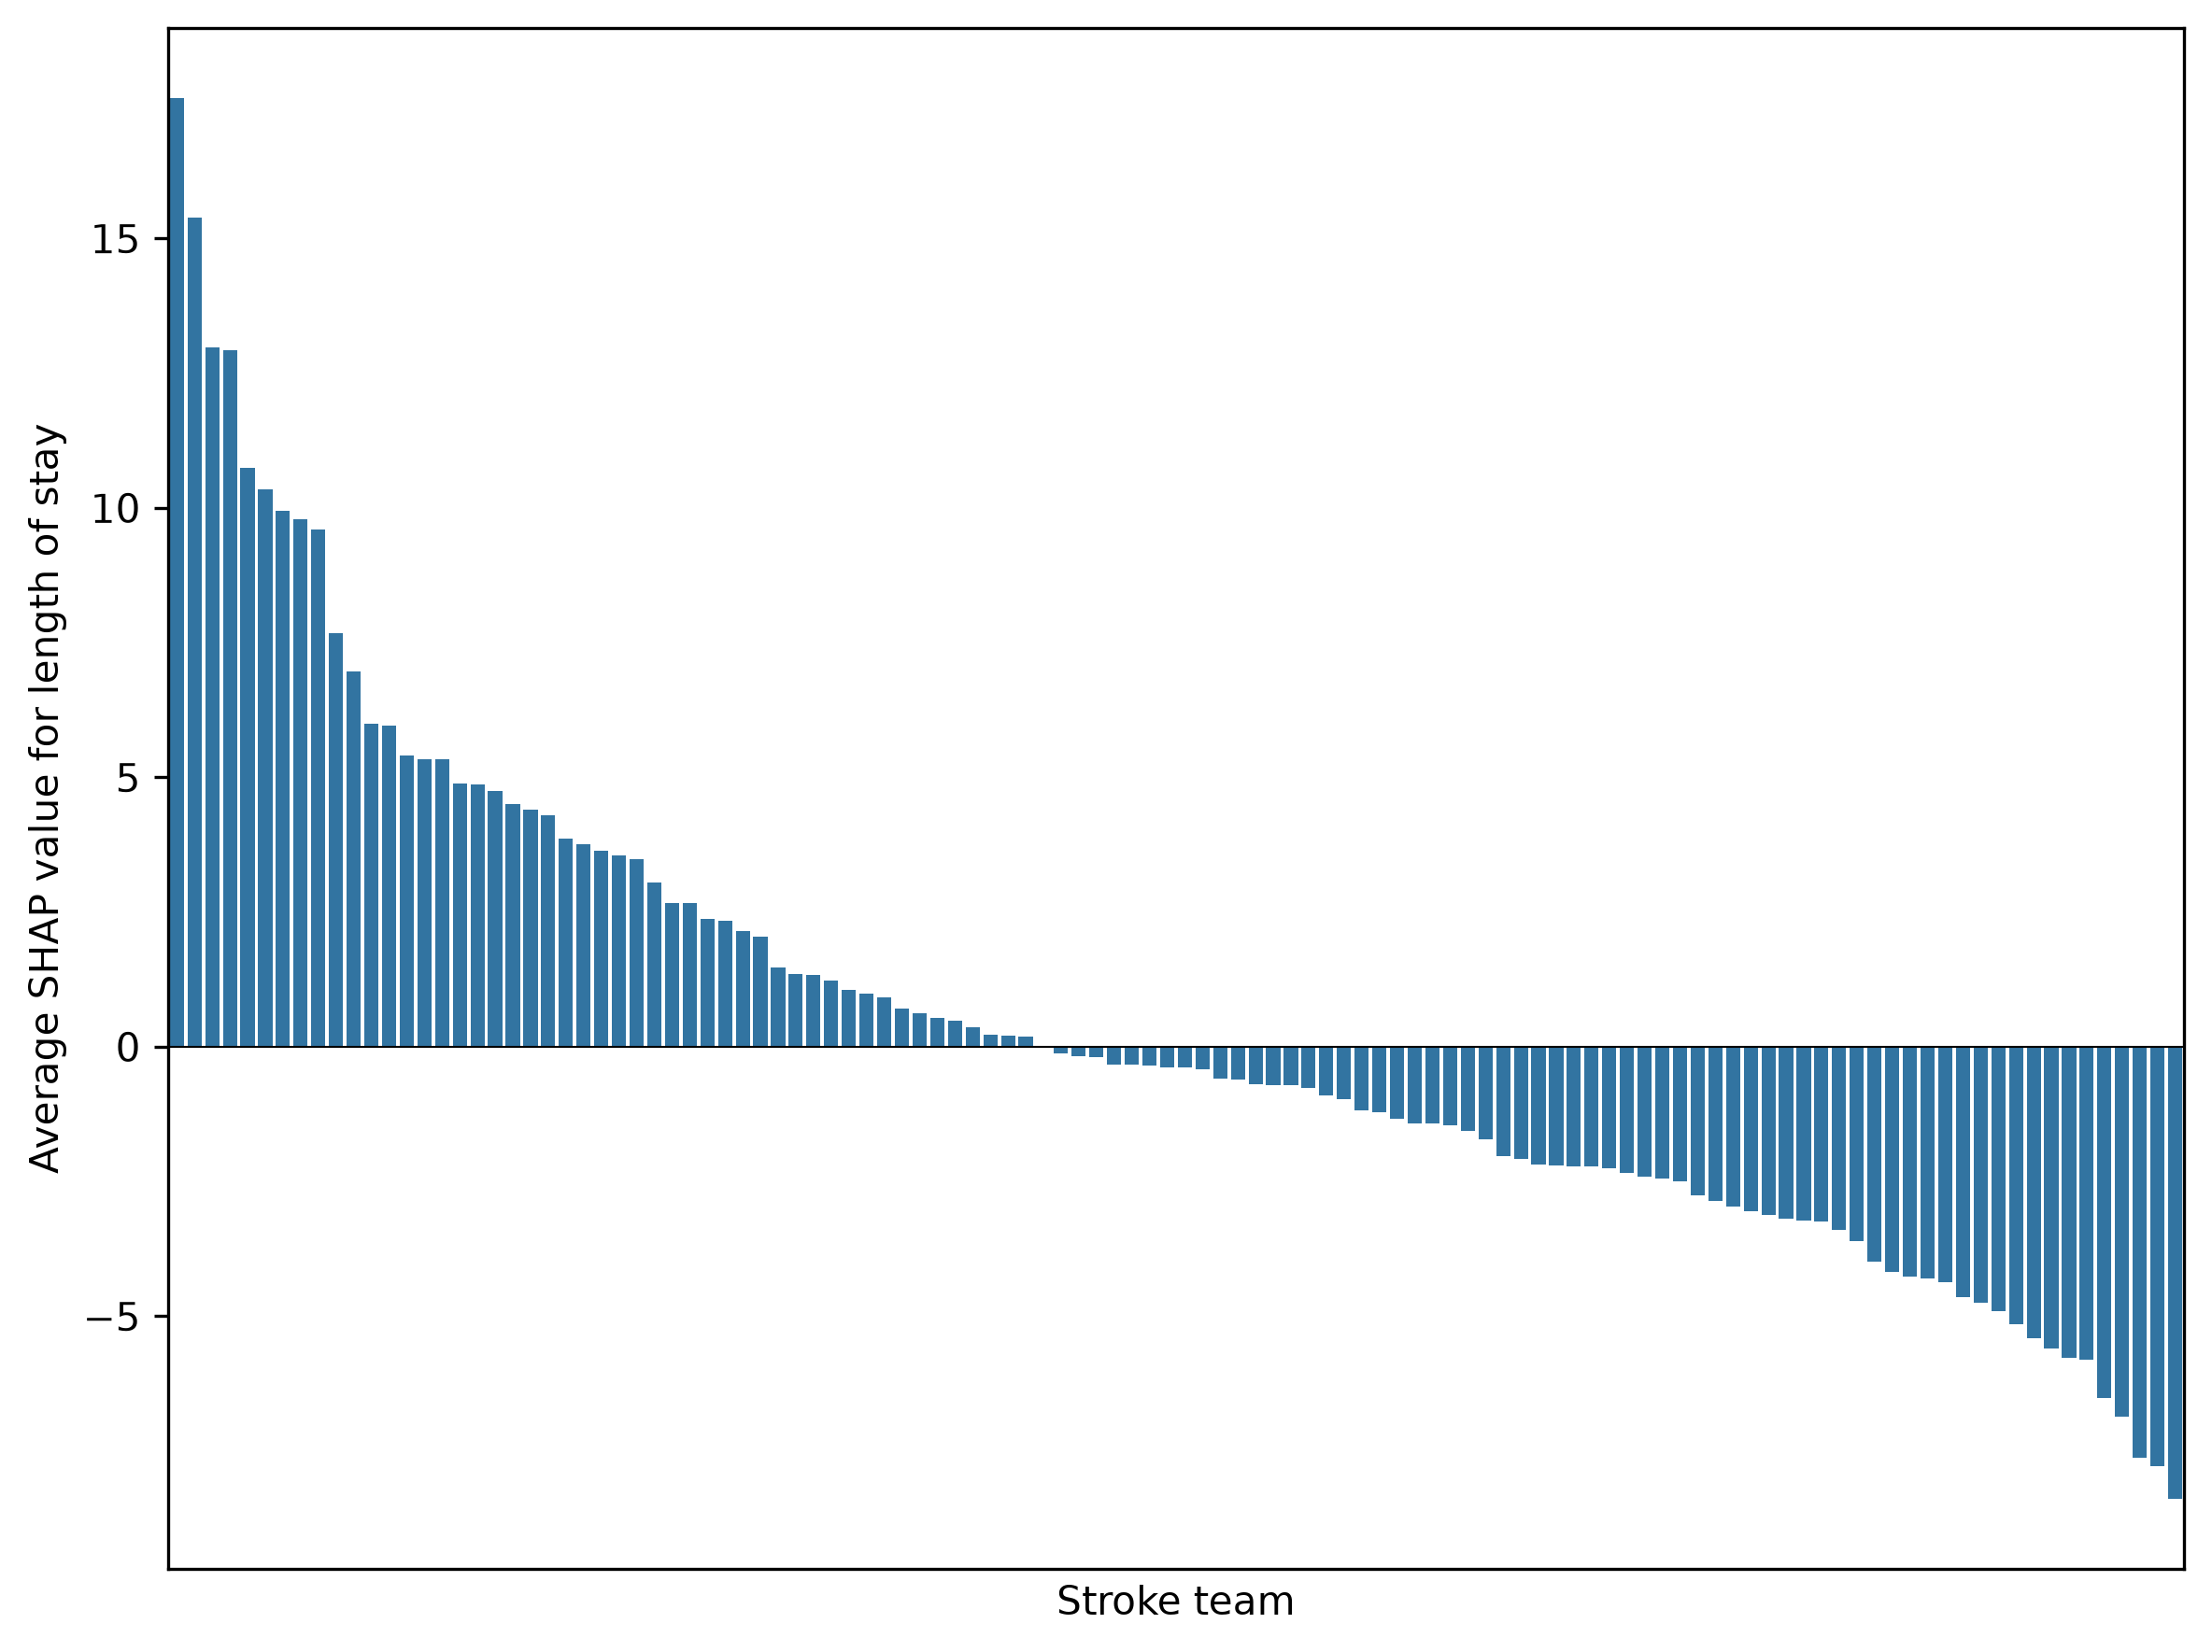
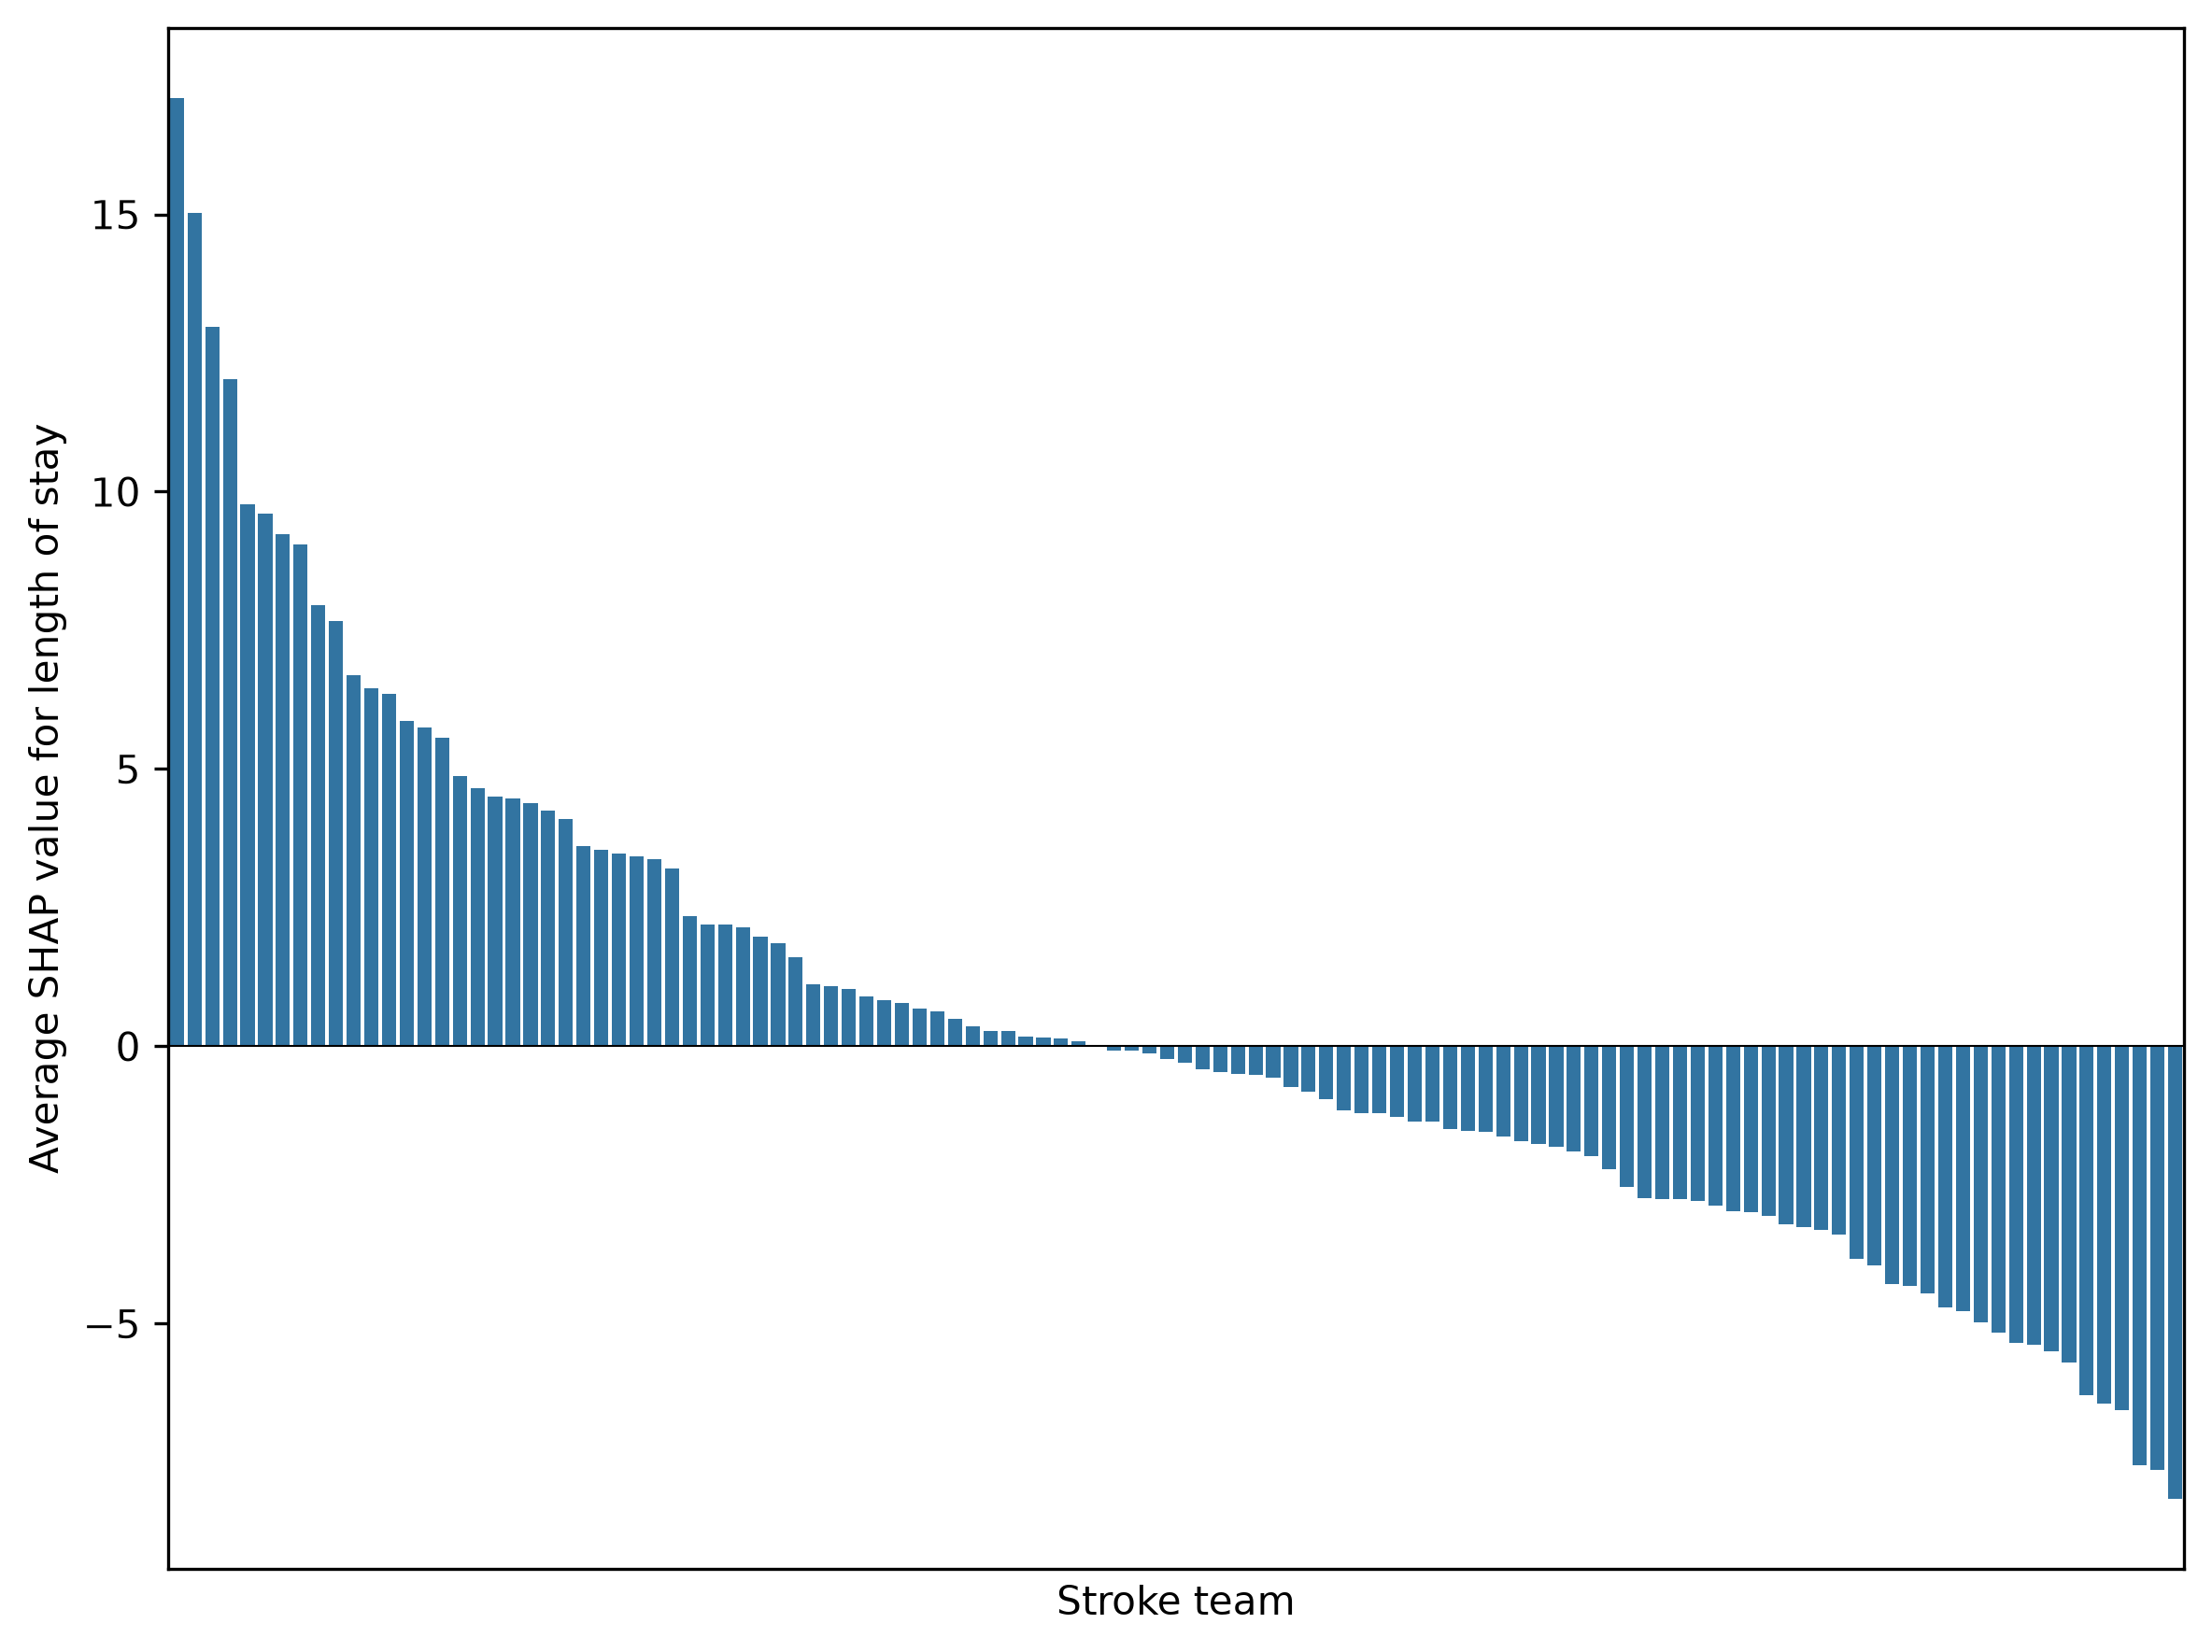
Updates from Overleaf

diff --git a/3_results/shap_general.tex b/3_results/shap_general.tex
@@ -173,20 +173,26 @@ Some observations may be made:
     \vspace{0.5cm} % Optional vertical space between rows
 
     % Bottom left image (~45% width)
-    \begin{subfigure}{0.407\textwidth}
+    \begin{subfigure}{0.24\textwidth}
         \includegraphics[width=\linewidth]{images/shap/shap_all_patients_los_ethnicity.png}
         %\caption{}
         \label{fig:bottom-left}
     \end{subfigure}
     \hfill % Adds flexible horizontal spacing
+        \begin{subfigure}{0.24\textwidth}
+        \includegraphics[width=\linewidth]{images/shap/shap_all_patients_los_discharge_destination.png}
+        %\caption{}
+        \label{fig:bottom-middke}
+    \end{subfigure}
+    \hfill
     % Bottom right image (~55% width)
-    \begin{subfigure}{0.543\textwidth}
+    \begin{subfigure}{0.49\textwidth}
         \includegraphics[width=\linewidth]{images/shap/shap_all_patients_los_stroke_team.png}
         %\caption{}
         \label{fig:bottom-right}
     \end{subfigure}
 
-    \caption{SHAP analysis of feature contributions to predicting length of stay for stroke patients. \textit{Top}: A SHAP summary plot detailing feature impacts on the model's predictions. Each point represents an individual patient. The x-axis indicates the SHAP value, where positive values increase the predicted length of stay, and negative values decrease it. For continuous and binary variables, colour represents the original feature value (red for high; blue for low). Categorical variables (\textit{stroke team} and \textit{ethnicity}) are plotted in grey. \textit{Bottom left}: Violin plots illustrating the distribution of SHAP values across ethnic groups, highlighting the marginal impact of ethnicity on the predicted length of stay. \textit{Bottom right}: A ranked bar chart displaying the average SHAP value for each stroke team. This visualizes institutional variation, reflecting the treating stroke team's contribution to the length of stay after accounting for patient-level clinical characteristics.}
+    \caption{SHAP analysis of feature contributions to predicting length of stay for stroke patients. \textit{Top}: A SHAP summary plot detailing feature impacts on the model's predictions. Each point represents an individual patient. The x-axis indicates the SHAP value, where positive values increase the predicted length of stay, and negative values decrease it. For continuous and binary variables, colour represents the original feature value (red for high; blue for low). Categorical variables (\textit{stroke team} and \textit{ethnicity}) are plotted in grey. \textit{Bottom left and middle}: Violin plots illustrating the distribution of SHAP values across ethnic groups and by discharge destination, highlighting the marginal impact of ethnicity oand discharge destination on the predicted length of stay. \textit{Bottom right}: A ranked bar chart displaying the average SHAP value for each stroke team. This visualizes institutional variation, reflecting the treating stroke team's contribution to the length of stay after accounting for patient-level clinical characteristics.}
     \label{fig:shap_los_all}
 \end{figure}
 